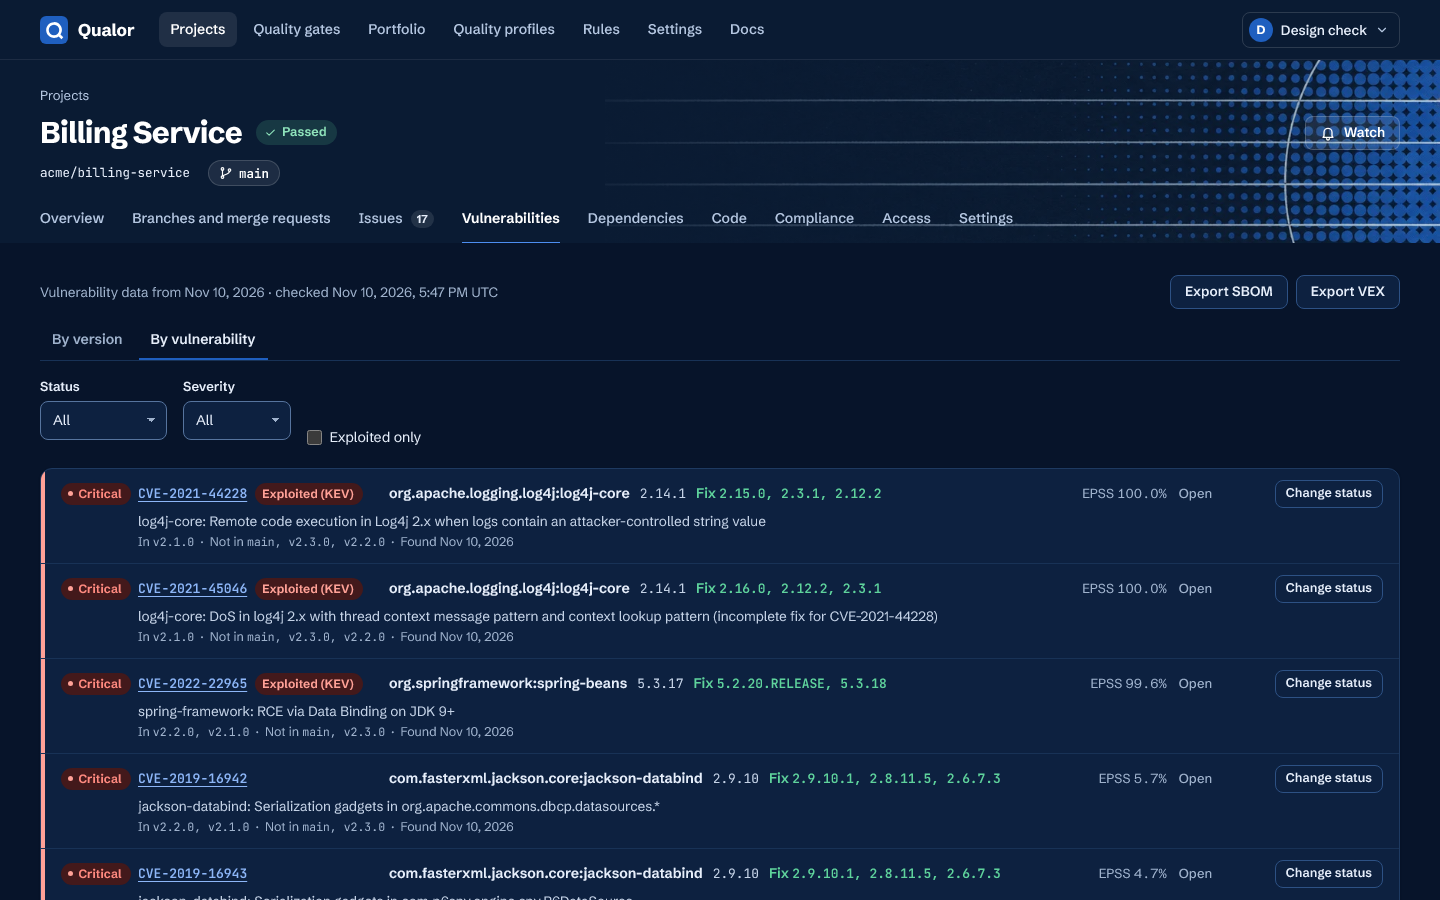
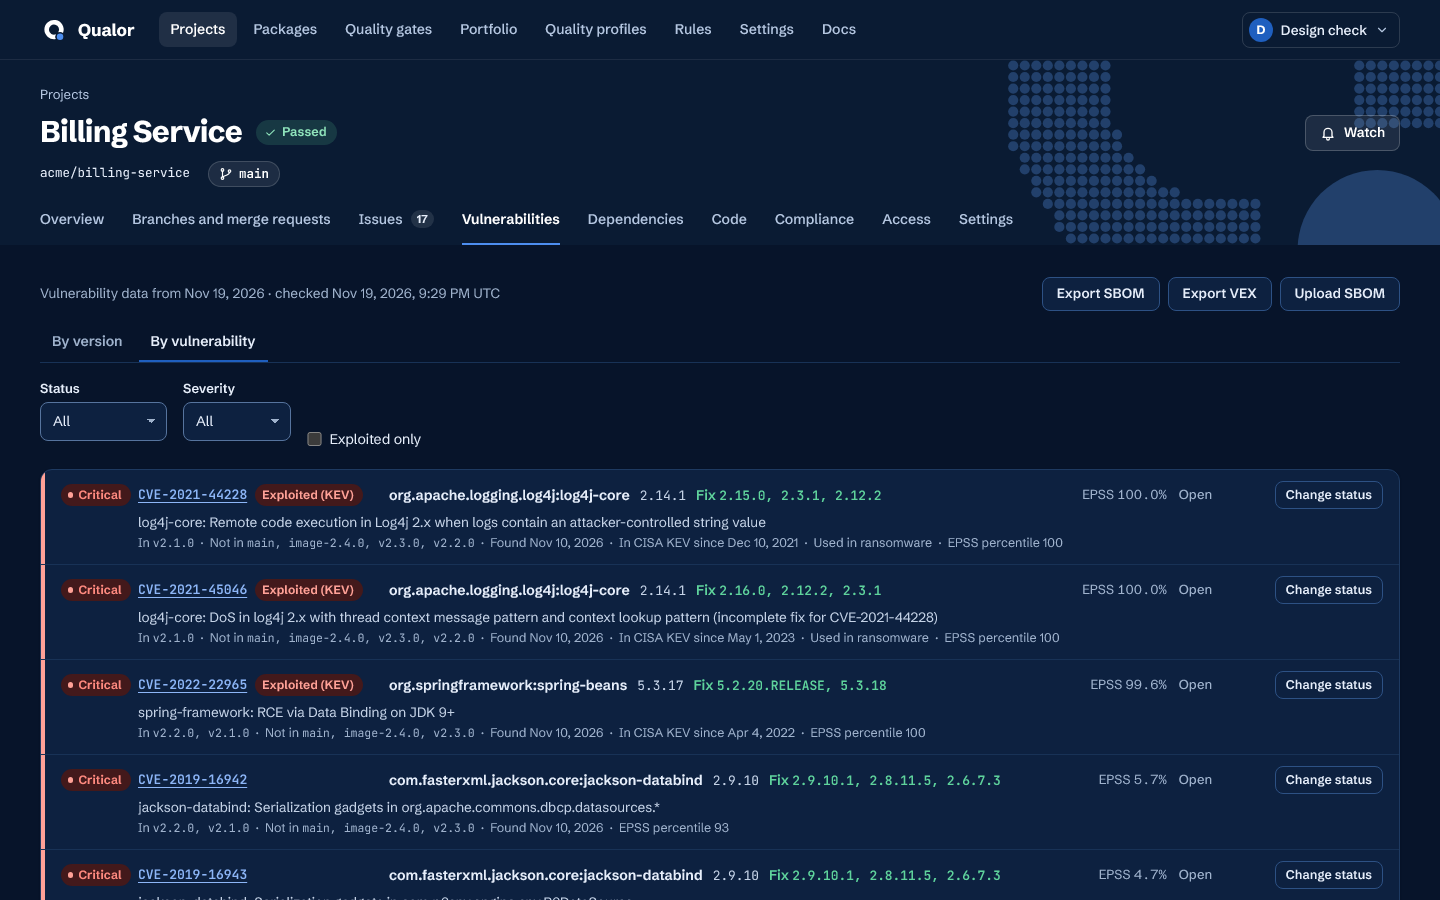
docs: README Vulnerabilities screens of 0.17, from the demo

diff --git a/README.md b/README.md
@@ -30,7 +30,7 @@ Star the repository to find it again.
   </tr>
   <tr>
     <td width="50%" valign="top">
-      <img src="docs/screenshots/vulnerabilities-by-version.png" alt="A project's Vulnerabilities tab by version: the main branch and three released versions, each with its Critical, High and Medium counts, and the exploited vulnerabilities in v2.1.0 and v2.2.0">
+      <img src="docs/screenshots/vulnerabilities-by-version.png" alt="A project's Vulnerabilities tab by version: the main branch, an uploaded container image SBOM and three released versions, each with its Critical, High and Medium counts, and the exploited vulnerabilities in v2.1.0 and v2.2.0">
       <br><sub><b>Vulnerabilities</b> of each branch and released version</sub>
     </td>
     <td width="50%" valign="top">
